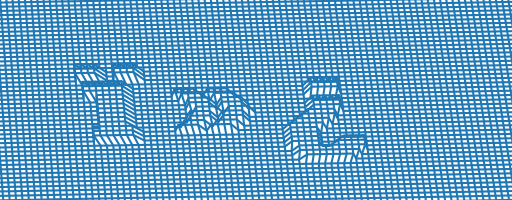
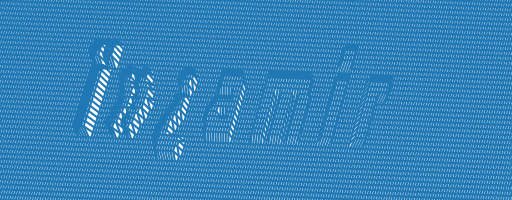
updated

diff --git a/LTR.py b/LTR.py
@@ -1,40 +1,17 @@
-#/!usr/bin/env python 
+# /!usr/bin/env python
 # encoding=utf-8
 import os
 from random import uniform, shuffle
-# from io import StringIO
 from cStringIO import StringIO
 from PIL import ImageFont, Image, ImageDraw
-import numpy, pylab
+import numpy
+import pylab
 from mpl_toolkits.mplot3d import Axes3D
+from argparse import ArgumentParser
 
-fontPath = '/home/mrl/catkin_ws/src/moveit_tutorials/_themes/sphinx_rtd_theme/static/fonts/RobotoSlab-Bold.ttf'
 
-def preProcess(len_of_txt):
-    #to Do : find the best variable to diffrent len
+def preprocess(len_of_txt):
     variable_dic = {}
-    # if len_of_txt == 1:
-    #     rstride = 
-    #     cstride = 
-    #     zlim1 = 
-    #     zlim2 = 
-    #     xlim1 = 
-    #     xlim2 = 
-    #     ylim1 = 
-    #     ylim2 = 
-    #     elev = 
-    #     azim = 
-    # if len_of_txt == 2:
-    #     rstride = 
-    #     cstride = 
-    #     zlim1 = 
-    #     zlim2 = 
-    #     xlim1 = 
-    #     xlim2 = 
-    #     ylim1 = 
-    #     ylim2 = 
-    #     elev = 
-    #     azim = 
     if len_of_txt == 3:
         rstride = 1
         cstride = 1
@@ -46,17 +23,7 @@ def preProcess(len_of_txt):
         ylim2 = 1.1
         elev = 80
         azim = -90
-    # if len_of_txt == 4:
-    #     rstride = 
-    #     cstride = 
-    #     zlim1 = 
-    #     zlim2 = 
-    #     xlim1 = 
-    #     xlim2 = 
-    #     ylim1 = 
-    #     ylim2 = 
-    #     elev = 
-    #     azim = 
+
     if len_of_txt == 5:
         rstride = 1
         cstride = 1
@@ -68,28 +35,7 @@ def preProcess(len_of_txt):
         ylim2 = 1.1
         elev = 80
         azim = -90
-    # if len_of_txt == 6:
-    #     rstride = 
-    #     cstride = 
-    #     zlim1 = 
-    #     zlim2 = 
-    #     xlim1 = 
-    #     xlim2 = 
-    #     ylim1 = 
-    #     ylim2 = 
-    #     elev = 
-    #     azim = 
-    # if len_of_txt == 7:
-    #     rstride = 
-    #     cstride = 
-    #     zlim1 = 
-    #     zlim2 = 
-    #     xlim1 = 
-    #     xlim2 = 
-    #     ylim1 = 
-    #     ylim2 = 
-    #     elev = 
-    #     azim = 
+
     if len_of_txt == 8:
         rstride = 1
         cstride = 2
@@ -101,17 +47,7 @@ def preProcess(len_of_txt):
         ylim2 = 1.1
         elev = 80
         azim = -90
-    # if len_of_txt == 9:
-    #     rstride = 
-    #     cstride = 
-    #     zlim1 = 
-    #     zlim2 = 
-    #     xlim1 = 
-    #     xlim2 = 
-    #     ylim1 = 
-    #     ylim2 = 
-    #     elev = 
-    #     azim = 
+
     else:
         rstride = 1
         cstride = 1
@@ -123,10 +59,12 @@ def preProcess(len_of_txt):
         ylim2 = 1.1
         elev = 80
         azim = -90
-    variable_dic = {'rstride':rstride,'cstride':cstride,'zlim1':zlim1,'zlim2':zlim2,'xlim1':xlim1,'xlim2':xlim2,'ylim1':ylim1,'ylim2':ylim2,'elev':elev,'azim':azim}
+    variable_dic = {'rstride': rstride, 'cstride': cstride, 'zlim1': zlim1, 'zlim2': zlim2,
+                    'xlim1': xlim1, 'xlim2': xlim2, 'ylim1': ylim1, 'ylim2': ylim2, 'elev': elev, 'azim': azim}
     return variable_dic
-    
-def makeImage(text,len_text, width=400, height=200, angle=None):
+
+
+def make_image(text, font_path, len_text, width=400, height=200, angle=None):
     '''Generate a 3d CAPTCHA image.
     Args:
         text: Text in the image.
@@ -137,13 +75,13 @@ def makeImage(text,len_text, width=400, height=200, angle=None):
     Returns:
         Binary data of CAPTCHA image in PNG format.
     '''
-    variables = preProcess(len_text)
+    variables = preprocess(len_text)
     angle = angle if angle != None else uniform(-20, 20)
     try:
-        font = ImageFont.truetype(fontPath, 24)
+        font = ImageFont.truetype(font_path, 24)
     except IOError:
         raise IOError(
-            'Font file doesn\'t exist. Please set `fontPath` correctly.')
+            'Font file doesn\'t exist. Please set `font_path` correctly.')
     txtW, txtH = font.getsize(text)
     img = Image.new('L', (txtW * 3, txtH * 3), 255)
     drw = ImageDraw.Draw(img)
@@ -153,7 +91,8 @@ def makeImage(text,len_text, width=400, height=200, angle=None):
     ax = Axes3D(fig)
     X, Y = numpy.meshgrid(range(img.size[0]), range(img.size[1]))
     Z = 1 - numpy.asarray(img) / 255
-    ax.plot_wireframe(X, -Y, Z, rstride=variables['rstride'], cstride=variables['cstride'])
+    ax.plot_wireframe(
+        X, -Y, Z, rstride=variables['rstride'], cstride=variables['cstride'])
     ax.set_zlim((variables['zlim1'], variables['zlim2']))
     ax.set_xlim((txtW * variables['xlim1'], txtW * variables['xlim2']))
     ax.set_ylim((-txtH * variables['ylim1'], -txtH * variables['ylim2']))
@@ -166,6 +105,7 @@ def makeImage(text,len_text, width=400, height=200, angle=None):
     fim.close()
     return binData
 
+
 def randStr(length=7):
     '''Generate a random string composed of lowercase and digital.
     Indistinguishable characters have been removed.
@@ -175,31 +115,40 @@ def randStr(length=7):
     return str(characters[:length])
 
 
-
-
-def readFile():
-    with open(os.path.join(os.getcwd(),'model.txt'),'r') as f:
-        lines= f.readlines()
+def read_line(model_path):
+    with open(model_path, 'r') as f:
+        lines = f.readlines()
         return lines
-    
+
+
 def fill_line_len(lines):
     line_len = []
     for line in lines:
         line_space = ' '.join(line)
-        line_len.append([line_space,len(line)-1])
+        line_len.append([line_space, len(line)-1])
     return line_len
 
+
 def main():
+    if not os.path.exists:
+        os.makedirs(os.path.join(os.path.dirname(__file__), 'captcha'))
+    ap = ArgumentParser()
+    ap.add_argument("-f", "--font_path", required=True, type=str,
+                    help='the path of font that you want to use')
+    ap.add_argument("-p", "--sample_path", required=True,
+                    type=str, help="the path of sample.txt")
+    args = vars(ap.parse_args())
+    font = args['font_path']
+    sample = args['sample_path']
     i = 1
-    lines = readFile()
+    lines = read_line(sample)
     len_line = fill_line_len(lines)
-    for line,len_line in len_line:
-        img = makeImage(str(line),len_line,width=512)
-        with open(os.path.join(os.getcwd(),'captcha/%d.png' % i), 'wb') as f:
+    for line, len_line in len_line:
+        img = make_image(str(line), font, len_line, width=512)
+        with open(os.path.join(os.path.dirname(__file__), 'captcha', '{}.png'.format(i)), 'wb') as f:
             f.write(img)
-        i +=1
+        i += 1
+
 
 if __name__ == '__main__':
-    
     main()
-

diff --git a/README.md b/README.md
@@ -1,18 +1,15 @@
-# captcha_maker
+# Captcha_maker
 
 <p align="center"><img width=100% src="https://github.com/amirsharifi74/captcha_maker/blob/master/captcha/2.png"></p>
 
-> **a package to make captcha from your txt.**
+> **A package to make captcha from your txt.**
 
 - this package is suitable for left to right languages .
  
 - Just you can use with python2.
-```
-@param
-set your font_path in the top of code
-```
-**Just fill your words in the model.txt and run it**
+
+**Just fill your words in the sample.txt and run it**
 
 ```
-python LTR.py
+python LTR.py -f ~/YOUR_FONT/*.ttf -p ~/YOUR_SAMPLE_PATH/*.txt
 ```
